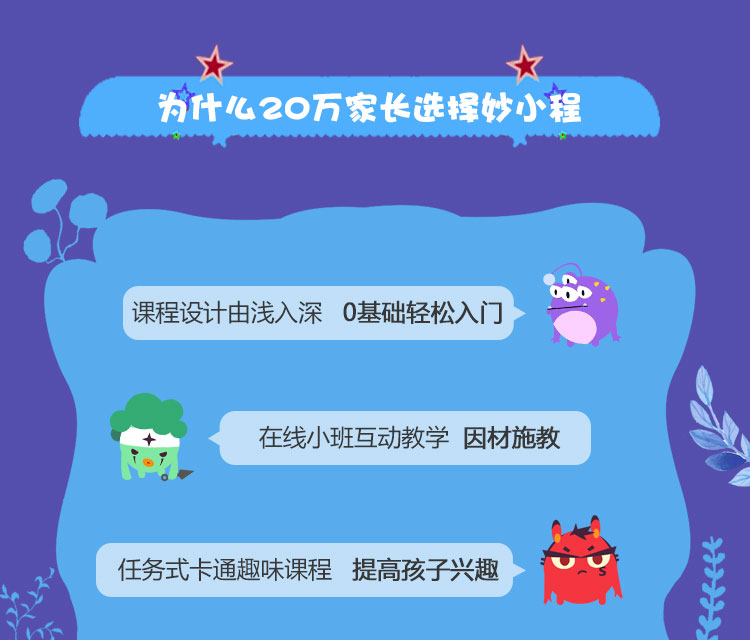
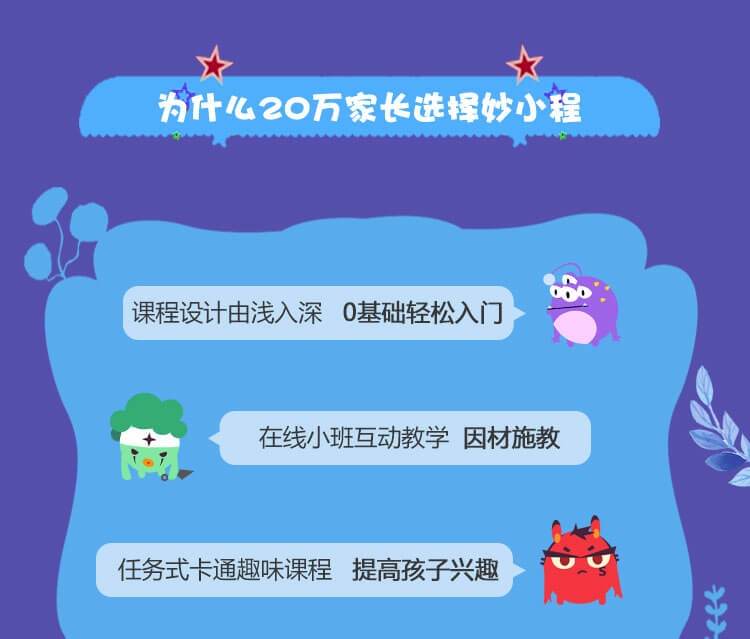
妙小程落地页:第一版更新

diff --git a/web/miaocode/css/pages/page-01.css b/web/miaocode/css/pages/page-01.css
@@ -14,19 +14,19 @@ body,html{
     background-color: #544fad;
 }
 .main .content-01{
-    height: 8.53rem;
+    height: 8.52rem;
     background: url("../../images/page-01/bg_01.jpg") top center no-repeat;
     -webkit-background-size: 100% 100%;
     background-size: 100% 100%;
 }
 .main .content-02{
-    height: 5.2rem;
+    height: 7.65rem;
     background: url("../../images/page-01/bg_02.jpg") top center no-repeat;
     -webkit-background-size: 100% 100%;
     background-size: 100% 100%;
 }
 .main .content-03{
-    height: 7.07rem;
+    height: 8.98rem;
     background: url("../../images/page-01/bg_03.jpg") top center no-repeat;
     -webkit-background-size: 100% 100%;
     background-size: 100% 100%;
@@ -73,4 +73,10 @@ body,html{
     background: url("../../images/page-01/bg_06.jpg") top center no-repeat;
     -webkit-background-size: 100% 100%;
     background-size: 100% 100%;
+}
+.slide02{
+    height: 1.33rem;
+}
+.slide02 img{
+    height: 100%;
 }

diff --git a/web/miaocode/page-01.html b/web/miaocode/page-01.html
@@ -21,10 +21,10 @@
                 <div class="swipslider" id="img-list">
                     <ul class="sw-slides">
                         <li class="sw-slide">
-                            <img src="images/page-01/gif_01.gif">
+                            <img src="images/page-01/gif_01.jpg">
                         </li>
-                        <li class="sw-slide">
-                            <img src="images/page-01/gif_02.gif">
+                        <li class="sw-slide slide02">
+                            <img  src="images/page-01/gif_02.gif">
                         </li>
                         <li class="sw-slide">
                             <img src="images/page-01/gif_03.gif">
@@ -49,7 +49,7 @@
             });
         })
     </script>
-    <!--<script type="text/javascript" src="js/pages/page-01.js"></script>-->
+    <script type="text/javascript" src="js/pages/page-01.js"></script>
 </body>
 </html>
 

diff --git a/web/miaocode/js/pages/page-01.js b/web/miaocode/js/pages/page-01.js
@@ -11,12 +11,6 @@
         sign=getRequestByName("sign"),
         startTime = new Date().getTime();
 
-    /*console.log("company:"+company);
-    console.log("userid:"+userId);
-    console.log("user-agent:"+ua);
-    console.log("ip:"+ip);
-    console.log("url："+url);
-    console.log("sign:"+sign);*/
 
     //保存页面初始化信息 http://mm.jnrise.cn/loading/server/enter
     $.ajax({
@@ -34,7 +28,7 @@
         },
         dataType: 'json',
         success: function(data){
-            //console.log(data);
+            // console.log(data);
         },
         error: function(xhr){
             console.log(xhr);
@@ -64,7 +58,7 @@
                 },
                 dataType: 'json',
                 success: function(data){
-                    //console.log(data);
+                    // console.log(data);
                 },
                 error: function(xhr){
                     console.log(xhr);
